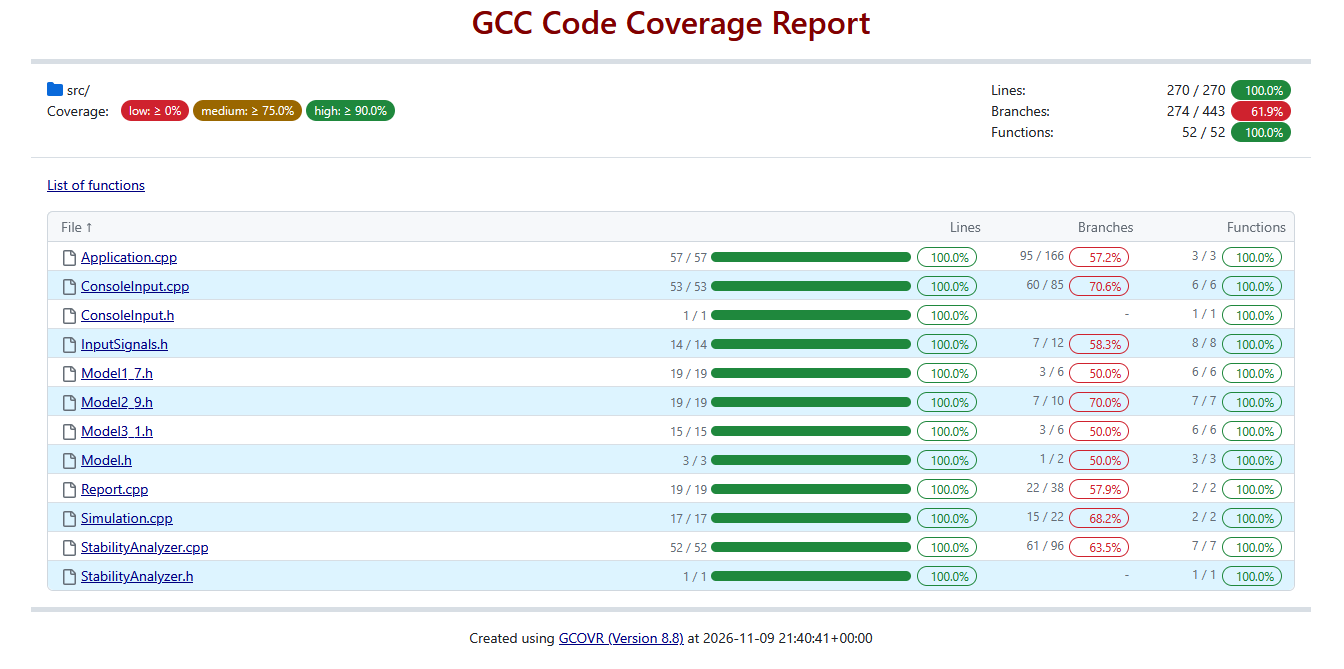
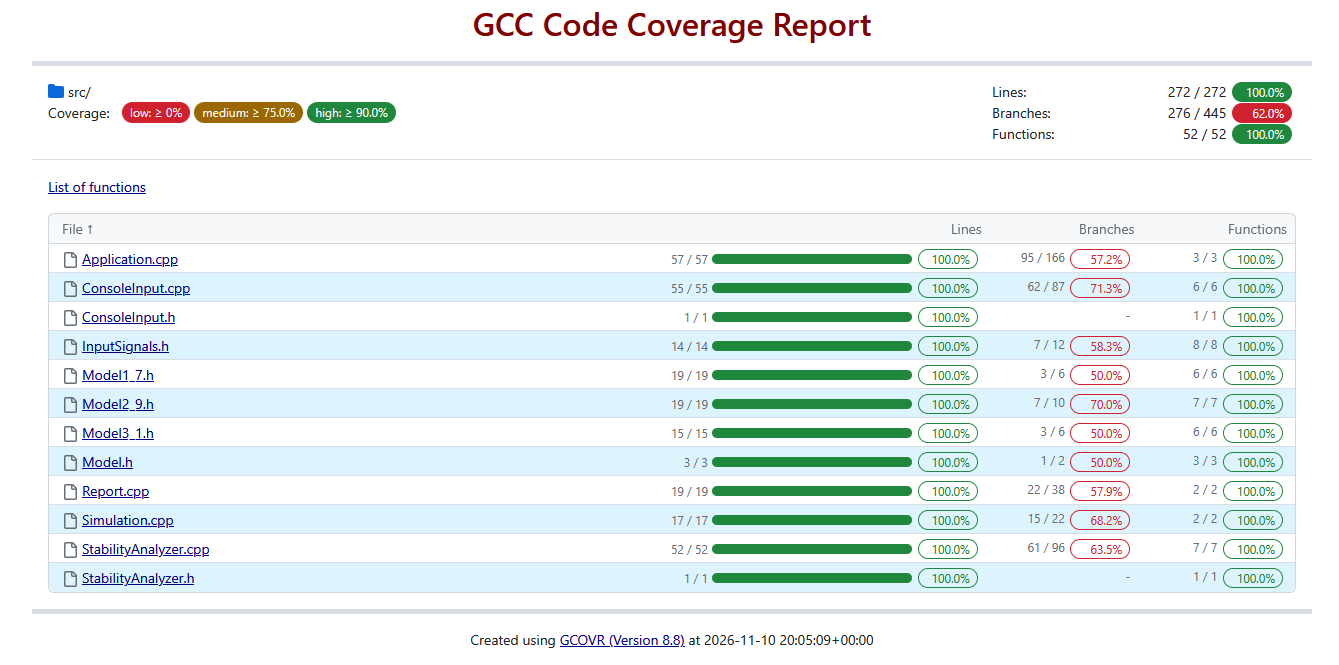
[task_02] Fix SonarCloud issues, update report

diff --git a/trunk/ii02914/task_02/src/ConsoleInput.cpp b/trunk/ii02914/task_02/src/ConsoleInput.cpp
@@ -2,6 +2,7 @@
 
 #include <cmath>
 #include <iostream>
+#include <stdexcept>
 #include <string>
 
 namespace {
@@ -23,7 +24,9 @@ bool parseDouble(const std::string& s, double& value) {
         if (!std::isfinite(v)) return false;
         value = v;
         return true;
-    } catch (const std::exception&) {  // invalid_argument / out_of_range
+    } catch (const std::invalid_argument&) {
+        return false;
+    } catch (const std::out_of_range&) {
         return false;
     }
 }
@@ -35,7 +38,9 @@ bool parseInt(const std::string& s, int& value) {
         if (s.find_first_not_of(" \t\r", pos) != std::string::npos) return false;
         value = v;
         return true;
-    } catch (const std::exception&) {
+    } catch (const std::invalid_argument&) {
+        return false;
+    } catch (const std::out_of_range&) {
         return false;
     }
 }
@@ -46,8 +51,7 @@ double readDouble(std::istream& in, std::ostream& out, const std::string& prompt
     out << prompt << " [default " << def << "]: ";
     const std::string line = readLine(in);
     if (line.empty()) return def;
-    double v = 0.0;
-    if (parseDouble(line, v)) return v;
+    if (double v = 0.0; parseDouble(line, v)) return v;
     out << "  Failed to parse, using default value.\n";
     return def;
 }
@@ -56,8 +60,7 @@ int readInt(std::istream& in, std::ostream& out, const std::string& prompt, int 
     out << prompt << " [default " << def << "]: ";
     const std::string line = readLine(in);
     if (line.empty()) return def;
-    int v = 0;
-    if (parseInt(line, v)) return v;
+    if (int v = 0; parseInt(line, v)) return v;
     out << "  Failed to parse, using default value.\n";
     return def;
 }

diff --git a/trunk/ii02914/task_02/src/Model1_7.h b/trunk/ii02914/task_02/src/Model1_7.h
@@ -12,8 +12,8 @@ private:
     double b2;
     double b3;
     double y = 0.0;
-    double u_prev1 = 0.0; // u_{t-1}
-    double u_prev2 = 0.0; // u_{t-2}
+    double u_prev1 = 0.0; // control one step back
+    double u_prev2 = 0.0; // control two steps back
 
 public:
     Model1_7(double a_, double b1_, double b2_, double b3_)
@@ -37,8 +37,8 @@ public:
         return "Model 1.7 (System with Multi-Step Control History)";
     }
 
-    // Характеристическое уравнение однородной части: z - a = 0 => z = a.
-    // (В форме состояния x = (y, u_{t-1}, u_{t-2}) собственные числа {a, 0, 0}.)
+    // Stability depends only on the homogeneous part: the characteristic root equals a.
+    // In state-space form the eigenvalues are a and two zeros (pure delay).
     bool isStable() const override {
         return stability::isStable(stability::classifyFirstOrder(a));
     }

diff --git a/trunk/ii02914/task_02/doc/readme.md b/trunk/ii02914/task_02/doc/readme.md
@@ -113,23 +113,29 @@ run_tests.bat
 
 ## 7. Тестовое покрытие и результаты
 
-* **Способ запуска:** локальный скрипт `run_tests.bat`
-* **Всего модульных тестов:** 129
-* **Успешно пройденных тестов:** 129 / 129
+- **Способ запуска:** локальный скрипт `run_tests.bat`
+- **Всего модульных тестов:** 129
+- **Успешно пройденных тестов:** 129 / 129
 
-| Модуль / Класс | Покрытие строк | Покрытие функций | Статус |
+| Файл | Покрытие строк | Покрытие функций | Статус |
 | :--- | :---: | :---: | :---: |
-| `StabilityAnalyzer.cpp` | 100 % (52/52) | 100 % | OK |
-| `Simulation.cpp` | 100 % (17/17) | 100 % | OK |
-| `Report.cpp` | 100 % (19/19) | 100 % | OK |
-| `ConsoleInput.cpp` | 100 % (53/53) | 100 % | OK |
-| `Application.cpp` | 100 % (57/57) | 100 % | OK |
-| `Model.h`, `Model1_7.h`, `Model2_9.h`, `Model3_1.h`, `InputSignals.h` | 100 % (51/51) | 100 % | OK |
-| **Итоговый результат** | **100 % (270/270)** | **100 % (52/52)** | **Success** |
+| `src/Application.cpp` | 100 % (57/57) | 100 % (3/3) | OK |
+| `src/ConsoleInput.cpp` | 100 % (55/55) | 100 % (6/6) | OK |
+| `src/ConsoleInput.h` | 100 % (1/1) | 100 % (1/1) | OK |
+| `src/InputSignals.h` | 100 % (14/14) | 100 % (8/8) | OK |
+| `src/Model1_7.h` | 100 % (19/19) | 100 % (6/6) | OK |
+| `src/Model2_9.h` | 100 % (19/19) | 100 % (7/7) | OK |
+| `src/Model3_1.h` | 100 % (15/15) | 100 % (6/6) | OK |
+| `src/Model.h` | 100 % (3/3) | 100 % (3/3) | OK |
+| `src/Report.cpp` | 100 % (19/19) | 100 % (2/2) | OK |
+| `src/Simulation.cpp` | 100 % (17/17) | 100 % (2/2) | OK |
+| `src/StabilityAnalyzer.cpp` | 100 % (52/52) | 100 % (7/7) | OK |
+| `src/StabilityAnalyzer.h` | 100 % (1/1) | 100 % (1/1) | OK |
+| **Итоговый результат** | **100.0 % (272/272)** | **100.0 % (52/52)** | **Success** |
 
-`main.cpp` (одна строка вызова `runApplication`) исключён из отчёта опцией `--exclude`. Покрытие ветвлений (branches) — 61.9 %; в учёт не берётся: значительная часть «веток» — служебные пути исключений стандартной библиотеки.
+`main.cpp` исключён из отчёта опцией `--exclude`. Покрытие ветвлений (branches) составляет 62.0 % (276 из 445); в расчёт качества кода кафедрой не принимается, так как непокрытыми остаются системные ассемблерные ветви раскрутки исключений стандартной библиотеки C++.
 
-Измерено локально на Windows: GCC 16.1, gcovr 8.8.
+Измерено локально на Windows: GCC, gcovr 8.8.
 
 Отчёт о покрытии (`build_tests\coverage\coverage.html`):
 
